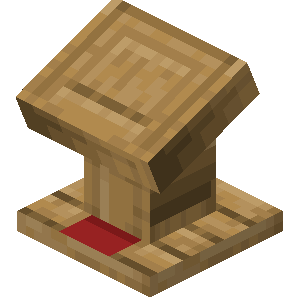
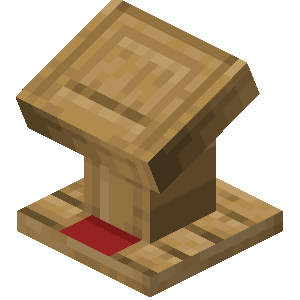
Attempt to rotate texcoords

diff --git a/src/hexdoc/graphics/render.py b/src/hexdoc/graphics/render.py
@@ -214,6 +214,9 @@ class BlockRendererConfig(WindowConfig):
 
             # render each face of the element
             for direction, face in element.faces.items():
+                rotation = Matrix44.from_y_rotation(math.radians(face.rotation), "f4")
+                self.uniform("m_texture").write(rotation)
+
                 self.uniform("light").value = get_face_light(direction)
                 self.uniform("texture0").value = texture_locs[face.texture.lstrip("#")]
 
@@ -410,15 +413,15 @@ def get_face_light(direction: FaceName):
         case "up":
             return LIGHT_UP
         case "down":
-            return LIGHT_UP / 2
+            return LIGHT_UP / 4
         case "south":
             return LIGHT_LEFT
         case "north":
-            return LIGHT_LEFT / 2
+            return LIGHT_LEFT / 4
         case "east":
             return LIGHT_RIGHT
         case "west":
-            return LIGHT_RIGHT / 2
+            return LIGHT_RIGHT / 4
 
 
 def get_default_uv(element: ModelElement, direction: FaceName):

diff --git a/test.py b/test.py
@@ -6,6 +6,7 @@ from hexdoc.graphics.render import BlockRenderer
 from hexdoc.minecraft.models import load_model
 from hexdoc.minecraft.models.item import ItemModel
 
+# MODEL_ID = "minecraft:block/oak_stairs"
 MODEL_ID = "minecraft:block/lectern"
 
 
